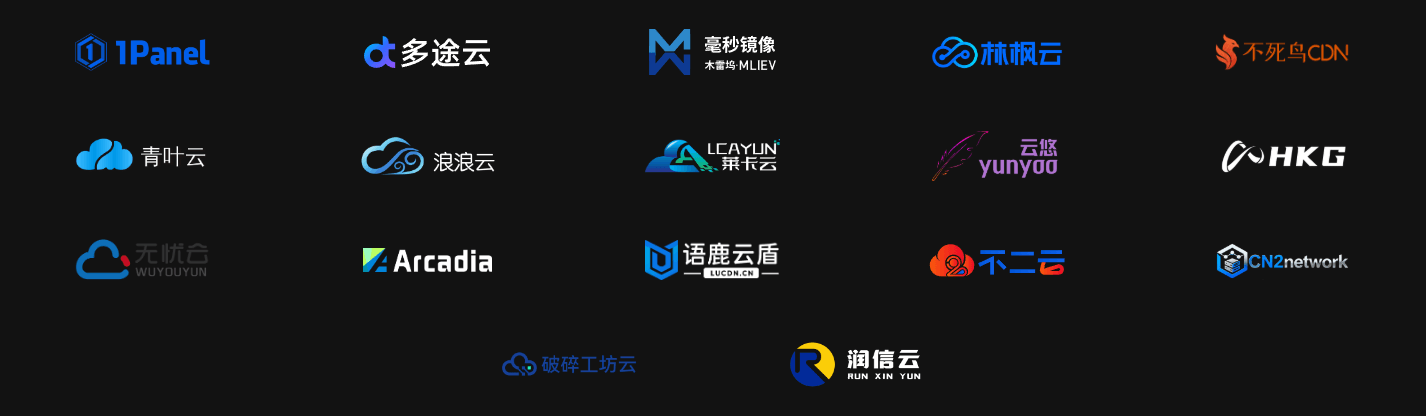
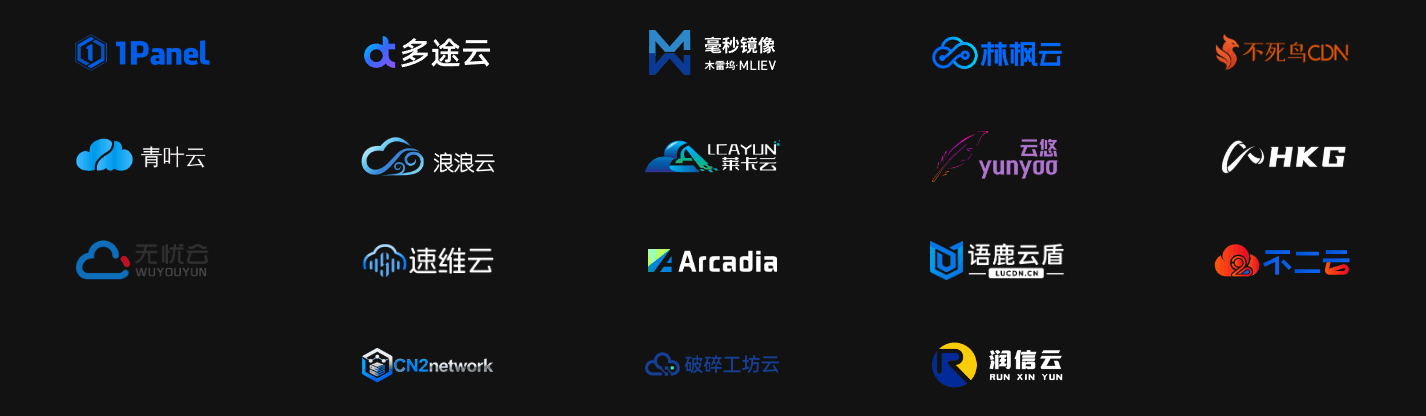
更新文档

diff --git a/docs/theme/partials/toc.html b/docs/theme/partials/toc.html
@@ -14,7 +14,7 @@
         <strong>{{'Sponsors' if i18n_page_locale == 'en' else '贊助商' if i18n_page_locale == 'zh-Hant' else '赞助商'}}</strong>
       </div>
       <div class="sponsor-wrapper sponsor-flex-wrapper-toc no-select">
-        <a class="sponsor-item sponsor-item-toc sponsor-item-toc-full-row" target="_blank" rel="noopener noreferrer" href="https://1panel.cn" title="新一代的 Linux 服务器运维管理面板">
+        <a class="sponsor-item sponsor-item-toc" target="_blank" rel="noopener noreferrer" href="https://1panel.cn" title="新一代的 Linux 服务器运维管理面板">
           <img src="/assets/images/sponsor/1panel.png" alt="1Panel" style="filter: grayscale(1) invert(0.6)" />
         </a>
         <a class="sponsor-item sponsor-item-toc" target="_blank" rel="noopener noreferrer" href="https://www.duotuyun.com" title="智能化防护，每一次连接皆在安全之下">
@@ -56,6 +56,10 @@
         <a class="sponsor-item sponsor-item-toc" target="_blank" href="https://www.wuyouyun.com" title="BGP多线高性能、高主频自动化云、物理服务器">
           <img src="/assets/images/sponsor/wuyouyun.png#only-light" alt="无忧云" style="filter: grayscale(1) invert(0.4)" />
           <img src="/assets/images/sponsor/wuyouyun.png#only-dark" alt="无忧云" style="filter: grayscale(1) invert(0.8)" />
+        </a>
+        <a class="sponsor-item sponsor-item-toc" target="_blank" href="https://www.svyun.com" title="大陆香港美日全球千兆大带宽、BGP多线、高频云、物理服务器">
+          <img src="/assets/images/sponsor/suweiyun-light.png#only-light" alt="速维云" style="filter: grayscale(1) invert(0.4)" />
+          <img src="/assets/images/sponsor/suweiyun-dark.png#only-dark" alt="速维云" style="filter: grayscale(1) invert(0.4)" />
         </a>
         <a class="sponsor-item sponsor-item-toc" target="_blank" rel="noopener noreferrer" href="https://arcadia.cool" title="一站式代码运维平台">
           <img src="/assets/images/sponsor/arcadia-light.png#only-light" alt="Arcadia" style="padding: 0 2px; filter: grayscale(1) invert(0.5)" />

diff --git a/docs/sponsor/main.html b/docs/sponsor/main.html
@@ -52,6 +52,11 @@
       <!-- 26 12 30 -->
       <img src="/assets/images/sponsor/wuyouyun.png" alt="无忧云" />
     </a>
+    <a class="sponsor-item sponsor-item-flex" target="_blank" rel="noopener noreferrer" href="https://www.svyun.com" title="大陆香港美日全球千兆大带宽、BGP多线、高频云、物理服务器">
+      <!-- 27 1 13 -->
+      <img src="/assets/images/sponsor/suweiyun-light.png#only-light" alt="速维云" />
+      <img src="/assets/images/sponsor/suweiyun-dark.png#only-dark" alt="速维云" />
+    </a>
     <a class="sponsor-item sponsor-item-flex" target="_blank" rel="noopener noreferrer" href="https://arcadia.cool" title="一站式代码运维平台">
       <img src="/assets/images/sponsor/arcadia-light.png#only-light" alt="Arcadia" style="width: 57% !important" />
       <img src="/assets/images/sponsor/arcadia-dark.png#only-dark" alt="Arcadia" style="width: 57% !important" />

diff --git a/docs/use/index.zh-Hant.md b/docs/use/index.zh-Hant.md
@@ -796,7 +796,7 @@ $ bash <(curl -sSL https://linuxmirrors.cn/main.sh) --zh-hant --help
     1. 首先在刪除內容時應盡可能保留腳本原始結構，直接把涉及函數中的內容刪除即可，使其保留為空函數
     2. 可以刪除一些不使用（作業系統）的軟體源原始內容 `gen_repo_files_xxx`，這些內容佔據了腳本 `60%` 以上的體積
     3. 如果你不使用某些功能，那麼可以刪除對應功能模組函數中的內容，`命令選項 handle_command_options`、`備份原有軟體源 backup_original_mirrors`、`更新軟體包 upgrade_software`
-    4. 移除不需要的語言包，例：`function msg_pack_en() {}`
+    4. 移除不需要的語言包，例：`function msg_pack_en() { :; }`
 6. 腳本主要功能配置是由統一的變量控制的，命令選項亦是如此，這些全局變量由全大寫字母構成並遵循下劃線命名法，具體變量詳見如下表格，你只需要將這些變量聲明在腳本頭部（預留註釋區域）即可快速完成定制
 
 ??? note "變數列表（點擊展開查看）"

diff --git a/docs/use/index.md b/docs/use/index.md
@@ -796,7 +796,7 @@ $ bash <(curl -sSL https://linuxmirrors.cn/main.sh) --help
     1. 首先在删除内容时应尽可能保留脚本原始结构，直接把涉及函数中的内容删除即可，使其保留为空函数
     2. 可以删除一些不使用（操作系统）的软件源原始内容 `gen_repo_files_xxx`，这些内容占据了脚本 `60%` 以上的体积
     3. 如果你不使用某些功能那么可以删除对应功能模块函数中的内容，`命令选项 handle_command_options`、`备份原有软件源 backup_original_mirrors`、`更新软件包 upgrade_software`
-    4. 移除不需要的语言包，例：`function msg_pack_en() {}`
+    4. 移除不需要的语言包，例：`function msg_pack_en() { :; }`
 6.  脚本主要功能配置是由统一的变量控制的，命令选项亦是如此，这些全局变量由全大写字母构成并遵循下划线命名法，具体变量详见如下表格，你只需要将这些变量声明在脚本头部（预留注释区域）即可快速完成定制
 
 ??? note "变量列表（点击展开查看）"

diff --git a/docs/use/index.en.md b/docs/use/index.en.md
@@ -794,7 +794,7 @@ If you are a developer of another project and want to create a custom script bas
     1. Keep the original structure; empty out the function bodies if not needed.
     2. Remove unused OS repo content `gen_repo_files_xxx`, which takes up over 60% of the script.
     3. Remove unused feature modules, e.g., `handle_command_options`, `backup_original_mirrors`, `upgrade_software`.
-    4. Remove unnecessary language packs, for example: `function msg_pack_en() {}`
+    4. Remove unnecessary language packs, for example: `function msg_pack_en() { :; }`
 6.  Main configuration is controlled by unified variables, as are command options. These global variables are all uppercase and use underscores. See the table below. Declare them at the top of the script (reserved comment area) for quick customization.
 
 ??? note "Variable list (click to expand)"
